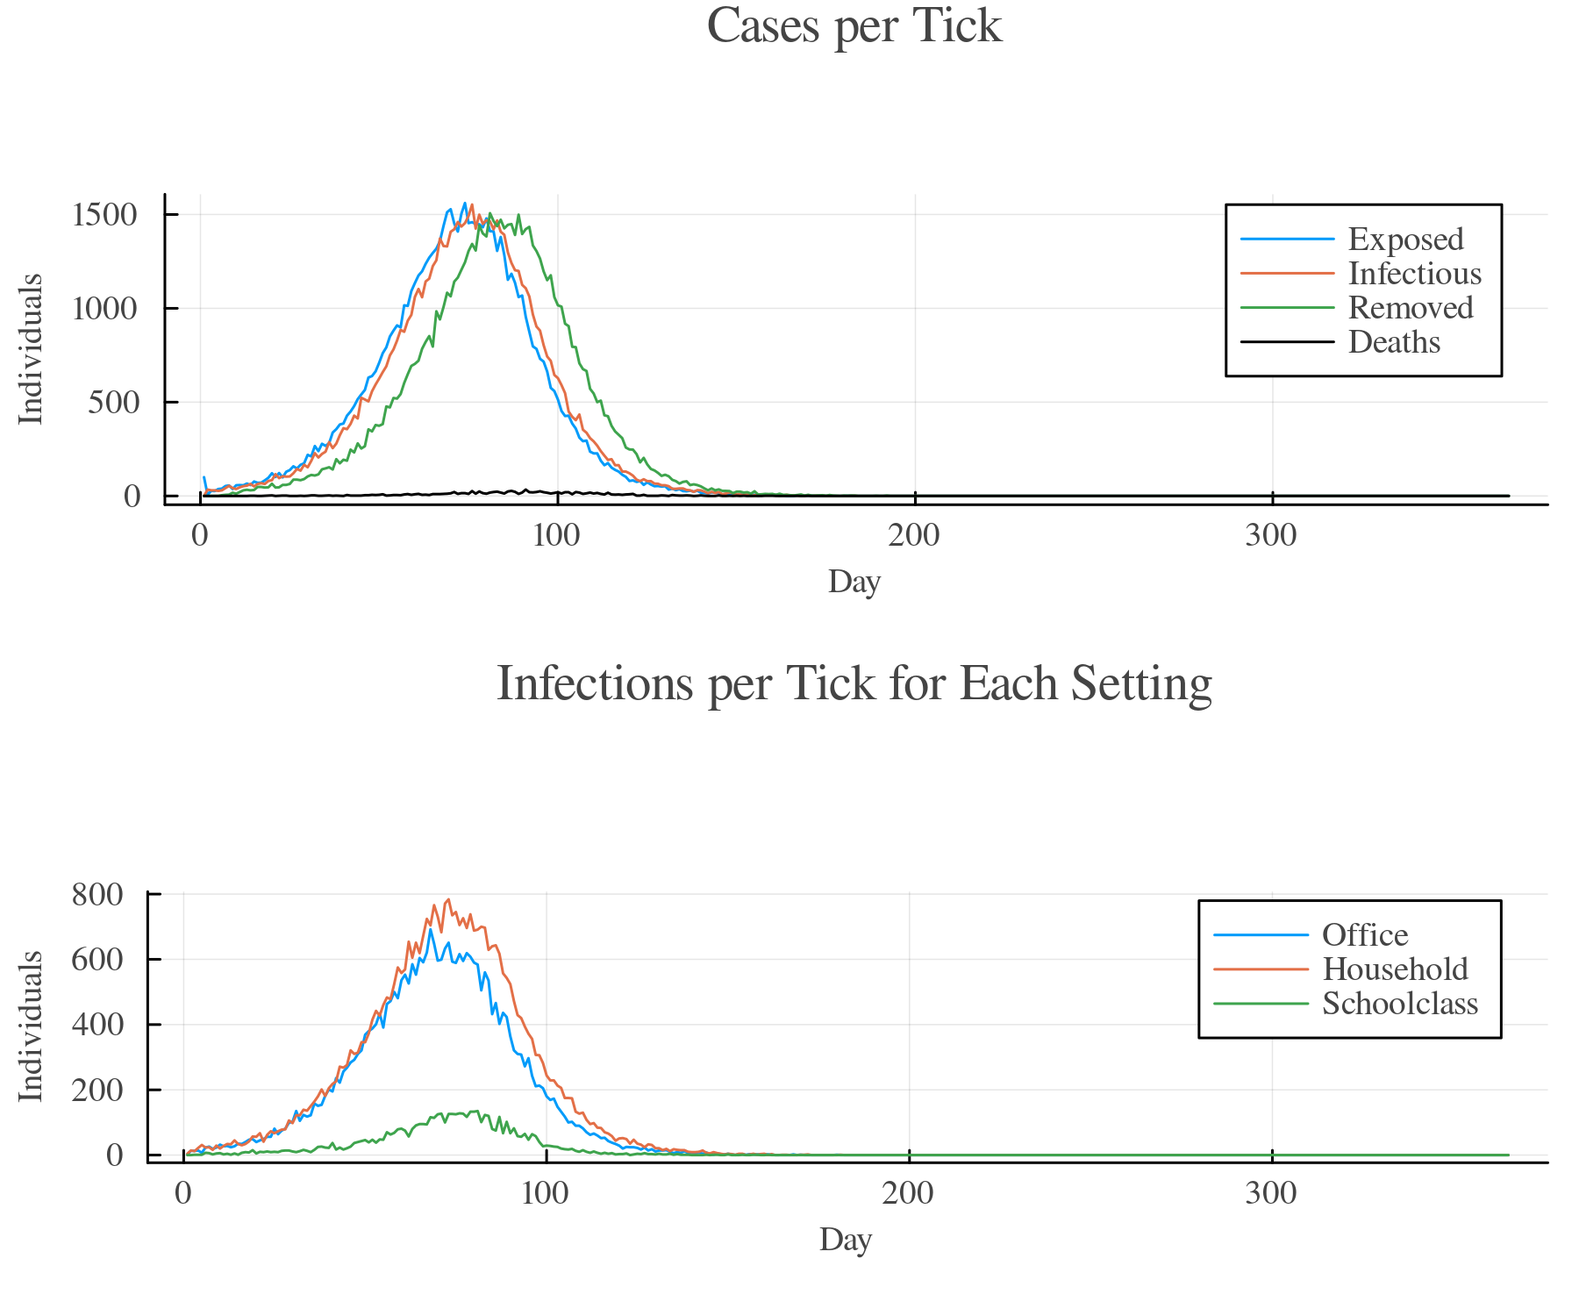
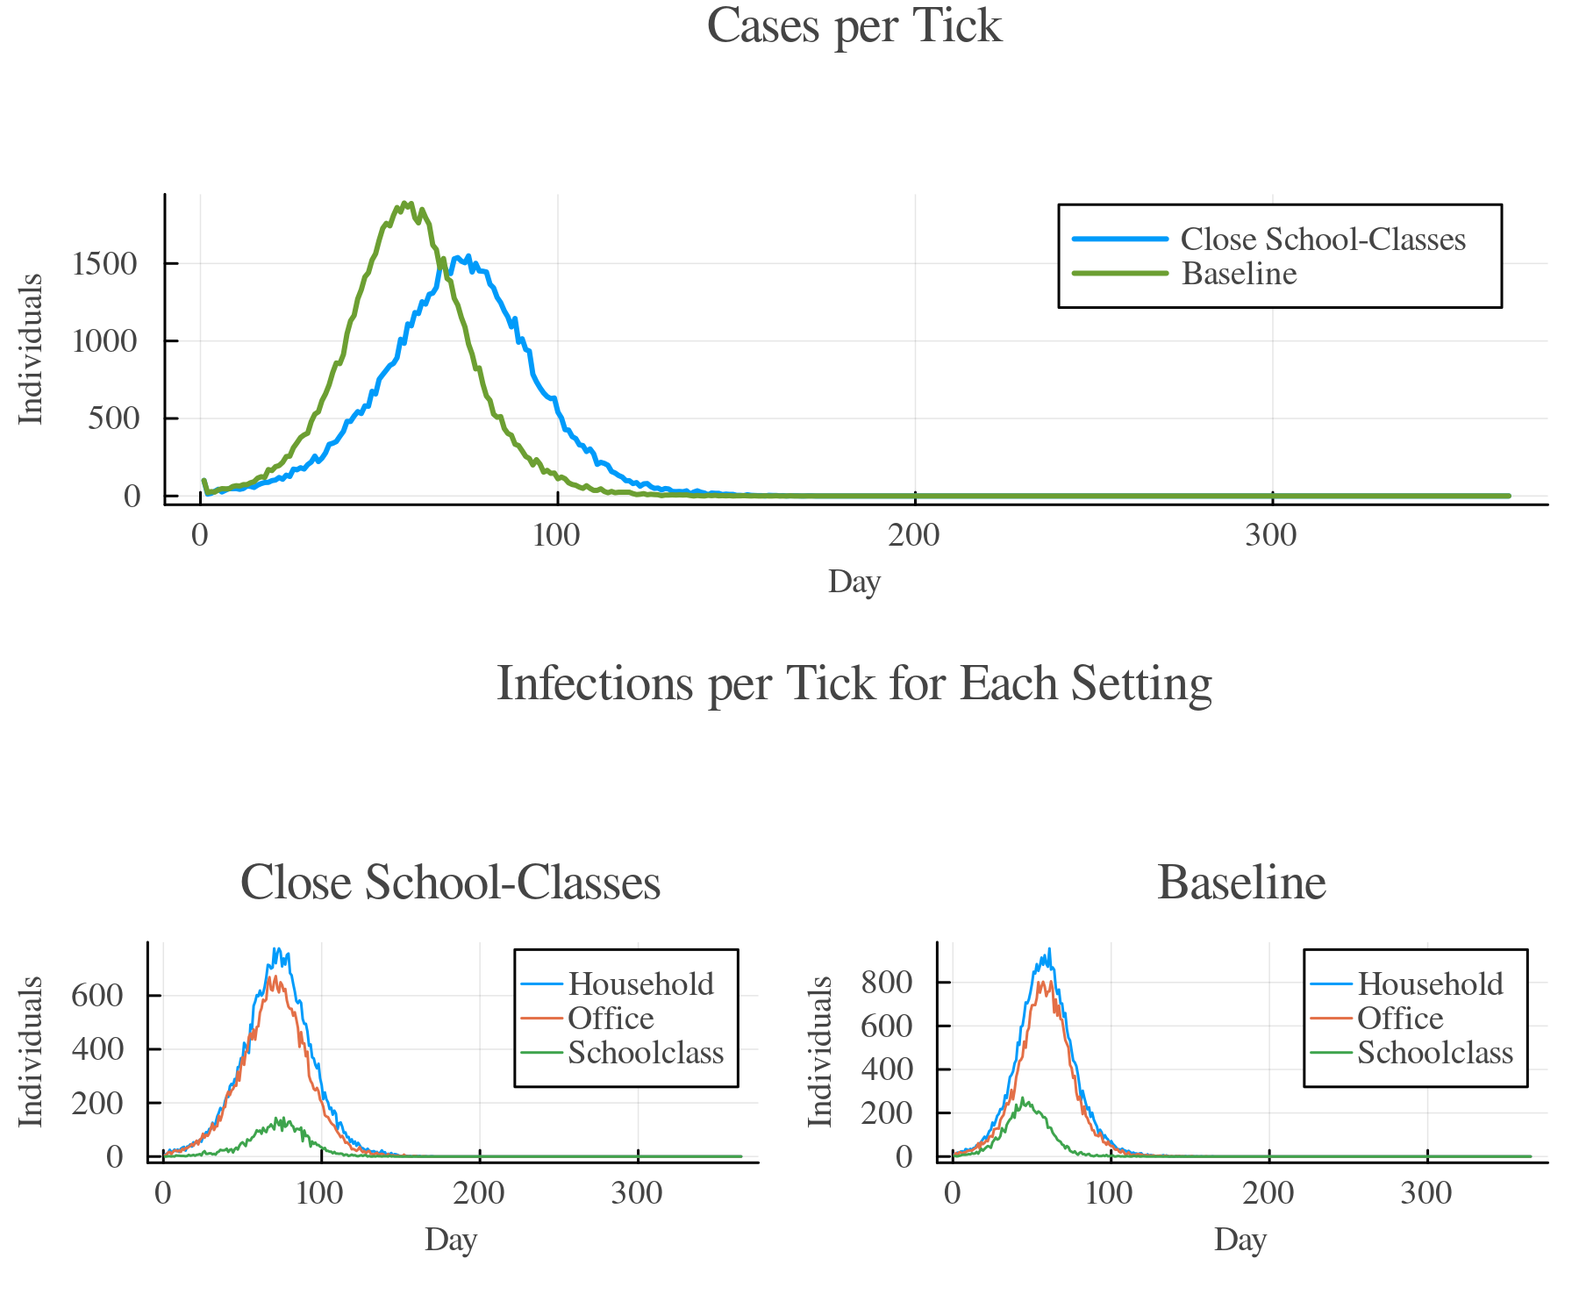
interventions tutorials
- new TickTests plot
- fixed trism blocks (condition on measure instead of strategy)
- change contact measure bug fix
- interventions tutorials adjustments

diff --git a/docs/src/tut_npi.md b/docs/src/tut_npi.md
@@ -127,7 +127,7 @@ Here's an example where people who are older than 50 should be isolated.
 
   - Individuals of age 50+ go into self-isolation for 14 days, immediately upon experiencing symptoms
   - Isolation prevents out-household contacts, but not in-household contacts
-  - Students end their isolation after 14 days, regardless of their infection state
+  - Individuals end their isolation after 14 days, regardless of their infection state
 
 ```julia
 using GEMS
@@ -557,7 +557,7 @@ That's necessary enable the recursive execution of strategies (they have to be "
 
 ```@raw html
 <p align="center">
-    <img src="../assets/tutorials/tut_interventions_trism_ghost_epidemic.png" width="100%"/>
+    <img src="../assets/tutorials/tut_interventions_trism_ghost-epidemic.png" width="100%"/>
 </p>
 ``` 
 
@@ -908,7 +908,7 @@ It is possible to specify that a test should not lead to a new case being report
 Please look up the [Test](@ref Test) measure's parameterization options.
 The next tutorial considers two test types where one of them does not lead to a reported case (self-applied test).
 
-## Seroprevalence Testing in School Class Isolation
+## Seroprevalence Testing
 
 In this tutorial, we demonstrate how to integrate **seroprevalence testing** into a symptom-triggered isolation strategy for **school classes** using GEMS.
 
@@ -924,7 +924,7 @@ We compare this targeted approach with a standard school class isolation strateg
 
 ```@raw html
 <p align="center">
-    <img src="../assets/tutorials/tut_interventions_trism_seroprevalencetesting.png" />
+    <img src="../assets/tutorials/tut_interventions_trism_seroprevalence_testing.png" />
 </p>
 ``` 
 
@@ -1016,11 +1016,6 @@ The testing strategy works as follows:
 Symptomatic individuals receive a PCR test directly. If positive, they are counted as confirmed cases. To also identify asymptomatic or pre-symptomatic cases, everyone in the symptomatic individual's household is tested using an antigen test. If a household member tests positive on the antigen test, they are given a follow-up PCR test for confirmation. Only PCR tests are reportable in this scenario, which avoids double-counting cases detected via both test types.
 
 **Scenario Summary**:
-  - Symptomatic individuals are tested with a **PCR test**.
-  - All other household members are tested with an **Antigen test**.
-  - A positive Antigen test triggers a **follow-up PCR test**.
-  - Only PCR tests are reported.
-  - This allows identifying both symptomatic and some asymptomatic cases, while controlling for test availability and cost.
 
 ```@raw html
 <p align="center">
@@ -1028,15 +1023,23 @@ Symptomatic individuals receive a PCR test directly. If positive, they are count
 </p>
 ``` 
 
+  - Symptomatic individuals are tested with a **PCR test**.
+  - All other household members are tested with an **Antigen test**.
+  - A positive Antigen test triggers a **follow-up PCR test**.
+  - Only PCR tests are reported.
+  - This allows identifying both symptomatic and some asymptomatic cases, while controlling for test availability and cost.
+
 ```julia
 using GEMS
 
-scenario = Simulation(label = "Scenario")
+scenario = Simulation(label = "Multiple Test Types")
 
 # define test type (PCR test)
-PCR_Test = TestType("PCR Test", pathogen(scenario), scenario, sensitivity = 0.99, specificity = 0.99)
+PCR_Test = TestType("PCR Test", pathogen(scenario), scenario, 
+ sensitivity = 0.99, specificity = 0.99)
 # define second test type (Antigen test)
-Antigen_Test = TestType("Antigen Test", pathogen(scenario), scenario, sensitivity = 0.8, specificity = 0.99)
+Antigen_Test = TestType("Antigen Test", pathogen(scenario), scenario, 
+ sensitivity = 0.8, specificity = 0.99)
 
 # define PCR-confirm-testing strategy
 PCR_confirm_testing = IStrategy("PCR confirm Test", scenario)
@@ -1044,11 +1047,13 @@ add_measure!(PCR_confirm_testing, Test("PCR Test", PCR_Test))
 
 # define antigen testing strategy
 antigen_testing = IStrategy("Antigen Testing", scenario)
-add_measure!(antigen_testing, Test("Antigen Test", Antigen_Test, positive_followup = PCR_confirm_testing, reportable = false))
+add_measure!(antigen_testing, Test("Antigen Test", Antigen_Test, 
+ positive_followup = PCR_confirm_testing, reportable = false))
 
 PCR_symptom_test = IStrategy("PCR Symptom Testing", scenario)
 add_measure!(PCR_symptom_test, Test("PCR Symptom Test", PCR_Test))
-add_measure!(PCR_symptom_test, FindSettingMembers(Household, antigen_testing, nonself = true))
+add_measure!(PCR_symptom_test, FindSettingMembers(Household, antigen_testing,
+ nonself = true))
 
 trigger = SymptomTrigger(PCR_symptom_test)
 add_symptom_trigger!(scenario, trigger)
@@ -1057,7 +1062,8 @@ run!(scenario)
 
 rd_s = ResultData(scenario)
 
-gemsplot(rd_s, type = (:TickTests, :TestPositiveRate), size = (800, 800))
+gemsplot(rd_s, type = (:TickTests, :TestPositiveRate, :DetectedCases),
+ series = [:total_tests])
 ```
 
 **Plot**
@@ -1073,45 +1079,49 @@ The results show both the number of tests performed and the test positivity rate
 
 ## Contact Reduction
 
-This scenario demonstrates a simple intervention: **reducing contacts** in specific settings —offices and schoolclasses— beginning three weeks into the epidemic (from tick 21 onward). 
+This scenario demonstrates a simple intervention: reducing contacts in specific settings (offices and schoolclasses) beginning 50 days into the epidemic. 
 The reduction is modeled using a structural strategy that changes how contacts are generated within those settings.
-
-Instead of fully removing individuals or closing the settings, we apply a `ChangeContactMethod` intervention. This uses `ContactparameterSampling(1)`, which modifies the internal contact-generation model to **sample daily contacts using a Poisson distribution centered around the setting's contact parameter**. 
+Instead of fully removing individuals or closing the settings, we apply a `ChangeContactMethod` intervention. This uses `ContactparameterSampling(0.5)`, which modifies the internal contact-generation model to sample daily contacts using a Poisson distribution centered around the setting's contact parameter. 
 This introduces stochastic variability while preserving the overall contact intensity, potentially modeling scenarios such as staggered attendance, smaller groups, or informal distancing behaviors.
 
 **Scenario Summary**:
-  - Contacts are **reduced in offices and schoolclasses** starting on **day 21** of the simulation.
-  - The intervention is implemented using a **Poisson-based contact sampling** method.
-  - This models a **soft contact reduction** rather than full setting closure.
-  - The intervention applies daily from tick 21 onward.
-  - No changes are made to household or community contacts.
 
 ```@raw html
 <p align="center">
     <img src="../assets/tutorials/tut_interventions_trism_contact-reduction.png" width="60%"/>
 </p>
 ``` 
+  - Contacts are reduced in offices and schoolclasses starting on day 50 of the simulation.
+  - The intervention is implemented using a Poisson-based contact sampling method.
+  - This models a soft contact reduction rather than full setting closure.
+  - No changes are made to household contacts.
 
 ```julia
 using GEMS
 
-scenario = Simulation(label = "Scenario")
+scenario = Simulation(label = "Contact Reduction")
 
 reduce_contacts = SStrategy("Reduce Contacts", scenario)
-add_measure!(reduce_contacts, ChangeContactMethod(ContactparameterSampling(1)))
+add_measure!(reduce_contacts, ChangeContactMethod(ContactparameterSampling(0.5)))
 
-trigger = STickTrigger(SchoolClass, reduce_contacts, switch_tick = Int16(21))
+trigger = STickTrigger(SchoolClass, reduce_contacts, switch_tick = Int16(50))
 add_tick_trigger!(scenario, trigger)
 
-trigger = STickTrigger(Office, reduce_contacts, switch_tick = Int16(21))
+trigger = STickTrigger(Office, reduce_contacts, switch_tick = Int16(50))
 add_tick_trigger!(scenario, trigger)
-
-# TODO: bug fix
 
 run!(scenario)
 rd_s = ResultData(scenario)
 
-gemsplot(rd_s, type = (:TickCases, :TickCasesBySetting), size = (800, 800))
+gemsplot(rd_s, type = (:TickCases, :TickCasesBySetting))
+```
+
+**Plot**
+
+```@raw html
+<p align="center">
+    <img src="../assets/tutorials/tut_interventions_contact-reduction.png" width="80%"/>
+</p>
 ```
 
 The results show how case numbers evolve over time and how cases are distributed across settings. You can observe whether the reduction in structured settings (office, schoolclass) slows the epidemic or shifts transmission into other areas like households.
@@ -1119,17 +1129,14 @@ The results show how case numbers evolve over time and how cases are distributed
 
 ## Setting Closure
 
-This section presents two examples of **closing settings** during an outbreak: one that targets all schools after a fixed time, and another that reacts dynamically by closing and reopening specific school classes based on symptoms.
+This section presents two examples of closing settings during an outbreak: one that targets all schools after a fixed time, and another that reacts dynamically by closing and reopening specific school classes based on symptoms.
 
 ### Example 1: Timed School Closure
 
-In this scenario, **all schools are closed on day 14**, two weeks into the epidemic. This is a structural intervention applied using the `CloseSetting()` measure, which disables contact interactions within the affected setting. Since default populations in GEMS only include low-level settings (like SchoolClass), we use the **"SL" population** model (based on Saarland), which includes **container settings** such as full schools.
+In this scenario, all schools are closed on day 42, six weeks into the epidemic. This is a structural intervention applied using the `CloseSetting()` measure, which disables contact interactions within the affected setting. Since default populations in GEMS only include low-level settings (like SchoolClass), we use the "SL" population model (based on Saarland), which includes container settings such as full schools.
+To allow the epidemic to develop more gradually and better highlight the effect of the intervention, we reduce the transmission rate.
 
 **Scenario Summary**:
-  - Simulation uses the **Saarland ("SL")** population with container settings like full **schools**.
-  - All schools are **closed on tick 14** (day 14 of the outbreak).
-  - The intervention halts all school-related transmission from that point onward.
-
 
 ```@raw html
 <p align="center">
@@ -1137,22 +1144,28 @@ In this scenario, **all schools are closed on day 14**, two weeks into the epide
 </p>
 ``` 
 
+  - Simulation uses the Saarland ("SL") population with container settings like full schools.
+  - All schools are closed on tick 42 (day 42 of the outbreak).
+  - The intervention halts all school-related transmission from that point onward.
+
+
 ```julia
 using GEMS
+using Plots
 
-scenario = Simulation(label = "Scenario", population="SL")
+scenario = Simulation(label = "School-Closing", population="SL", transmission_rate=0.05)
 
 school_closing = SStrategy("Close Schools", scenario)
 add_measure!(school_closing, CloseSetting())
 
-trigger = STickTrigger(School, school_closing, switch_tick = Int16(14))
+trigger = STickTrigger(School, school_closing, switch_tick = Int16(42))
 add_tick_trigger!(scenario, trigger)
 
 run!(scenario)
 rd_s = ResultData(scenario)
 
-gemsplot(rd_s, type = (:TickCases, :TickCasesBySetting), size = (800, 800))
-vline!([14], color = :red, linestyle = :dash, label = "School Closing")
+gemsplot(rd_s, type = (:TickCases, :TickCasesBySetting))
+vline!([42], color = :red, linestyle = :dash, label = "School Closing")
 ```
 
 **Plot**
@@ -1162,25 +1175,20 @@ vline!([14], color = :red, linestyle = :dash, label = "School Closing")
     <img src="../assets/tutorials/tut_interventions_setting-closure.png" width="80%"/>
 </p>
 ```
-
-The results show a **drop in transmission from school settings** after day 14, and a corresponding slowdown in overall case growth. A vertical line is included in the plot to highlight the intervention point.
+The results show that closing all schools on day 42 substantially reduces transmission within the school setting but has a limited effect on the overall epidemic peak.
 
 ---
 
 ### Example 2: Reactive School Class Closure and Reopening
 
-This scenario models a more **granular, dynamic intervention**: when a **student develops symptoms**, their **school class is closed immediately**. After **6 days**, the class is automatically reopened. This simulates targeted closure of small units within schools, reflecting policies where only affected groups are temporarily isolated rather than entire institutions.
-
+This scenario models a more granular, dynamic intervention: when a student develops symptoms, their school class is closed immediately. After 6 days, the class is automatically reopened. This simulates targeted closure of small units within schools, reflecting policies where only affected groups are temporarily isolated rather than entire institutions.
 This is implemented by:
 - Detecting symptomatic students,
-- Finding their associated **SchoolClass**,
+- Finding their associated SchoolClass,
 - Applying both `CloseSetting()` and, after a delay, `OpenSetting()`.
+We compare this scenario with a simulation without any interventions.
 
 **Scenario Summary**:
-  - If a **student becomes symptomatic**, their **school class is closed immediately**.
-  - The class is **reopened automatically after 6 days**.
-  - This approach allows **localized, temporary closures**, minimizing disruption.
-  - Other settings (e.g., households or offices) are unaffected.
 
 ```@raw html
 <p align="center">
@@ -1188,26 +1196,35 @@ This is implemented by:
 </p>
 ``` 
 
+  - If a student becomes symptomatic, their school class is closed immediately.
+  - The class is reopened automatically after 6 days.
+  - This approach allows localized, temporary closures, minimizing disruption.
+  - Other settings (e.g., households or offices) are unaffected.
+
 ```julia
 using GEMS
 
-scenario = Simulation(label = "Scenario")
+baseline = Simulation(label = "Baseline")
+scenario = Simulation(label = "Close School-Classes")
 
 close_and_open_class = SStrategy("Close and Open Class", scenario)
 add_measure!(close_and_open_class, CloseSetting())
 add_measure!(close_and_open_class, OpenSetting(), offset = 6)
 
 find_schoolclass = IStrategy("Find Class", scenario)
-add_measure!(find_schoolclass, FindSetting(SchoolClass, close_and_open_class), condition = is_student)
+add_measure!(find_schoolclass, FindSetting(SchoolClass, close_and_open_class),
+ condition = is_student)
 
 trigger = SymptomTrigger(find_schoolclass)
 add_symptom_trigger!(scenario, trigger)
 
+run!(baseline)
 run!(scenario)
 
+rd_b = ResultData(baseline)
 rd_s = ResultData(scenario)
 
-gemsplot(rd_s, type = (:TickCases, :TickCasesBySetting))
+gemsplot([rd_s, rd_b], type = (:TickCases, :TickCasesBySetting))
 ```
 
 **Plot**
@@ -1218,55 +1235,64 @@ gemsplot(rd_s, type = (:TickCases, :TickCasesBySetting))
 </p>
 ``` 
 
-The results show **local reductions in school class transmission**, while allowing normal activity to resume shortly after. This reactive strategy balances containment with continuity.
+The results show fewer cases overall, but especially fewer infections in schoolclasses.
 
 ## Custom Measures
 
-In this scenario, we explore how **risk perception and behavioral change** can be modeled dynamically using a custom measure. At the start of the simulation, no one is willing to follow isolation mandates—every individual has a `mandate_compliance` of 0, meaning they will **never** voluntarily isolate, even if symptomatic.
-
-However, people begin to **adjust their behavior when someone they know is hospitalized**. 
+In this scenario, we explore how*risk perception and behavioral change can be modeled dynamically using a custom measure. At the start of the simulation, no one is willing to follow isolation mandates—every individual has a `mandate_compliance` of 0, meaning they will never voluntarily isolate, even if symptomatic.
+However, people begin to adjust their behavior when someone they know is hospitalized. 
 Specifically, if a person shares a setting (household, office, or schoolclass) with someone who is hospitalized, they become more cautious and begin to comply fully with isolation instructions (i.e., their `mandate_compliance` is set to 1.0). From that point on, if they develop symptoms, they will isolate for 14 days.
-
-This change in behavior is implemented using a custom measure that updates the `mandate_compliance` field at runtime. Additionally, a custom logger tracks the **average mandate compliance over time**, allowing us to observe the societal shift toward more cautious behavior as the epidemic progresses.
-
 We also made some modifications to the simulation parameters:
-- The simulation starts with **only 10 infected individuals**, representing a very early outbreak stage.
-- The **disease progression** is configured such that **10% of infected individuals require hospitalization**, making the consequences of spread more severe and increasing the likelihood of behavior change.
+- The simulation starts with only 10 infected individuals, representing a very early outbreak stage.
+- The disease progression is configured such that 10% of infected individuals require hospitalization, making the consequences of spread more severe and increasing the likelihood of behavior change.
+We compare the scenario with a simulation without any interventions but the same parameters.
 
 **Scenario Summary**:
-  - At the beginning, **no one follows isolation rules**, even when sick.
-  - When someone is **hospitalized**, all contacts (in household, schoolclass, or office) become compliant with mandates.
-  - Compliant individuals **isolate for 14 days** if they develop symptoms.
-  - A **custom measure** is used to dynamically update individual behavior.
-  - A **custom logger** tracks the average level of compliance in the population.
-  - The simulation starts with **very few infections** and **higher severity**, emphasizing the impact of hospitalization events.
 
 ```@raw html
 <p align="center">
-    <img src="../assets/tutorials/tut_interventions_trism_custom_measure.png" width="50%"/>
-    <img src="../assets/tutorials/tut_interventions_trism_custom_measure2.png" width="100%"/>
+    <img src="../assets/tutorials/tut_interventions_trism_custom_measure.png" width="100%"/>
 </p>
 ``` 
 
-```julia
+  - At the beginning, no one follows isolation rules, even when sick.
+  - When someone is hospitalized, all contacts (in household, schoolclass, or office) become compliant with mandates.
+  - Compliant individuals isolate for 14 days if they develop symptoms.
+  - A custom measure is used to dynamically update individual behavior.
+  - A custom logger tracks the average level of compliance in the population.
+  - The simulation starts with very few infections and higher severity, emphasizing the impact of hospitalization events.
 
+```julia
 using GEMS
 
-scenario = Simulation(label = "Scenario", progression_categories = [0.4, 0.4, 0.1, 0.1], infected_fraction = 0.0001)
+baseline = Simulation(label = "Baseline", progression_categories = [0.4, 0.4, 0.1, 0.1],
+ infected_fraction = 0.0001)
 
 # Set mandate compliance to 0 for all individuals
+mandate_compliance!.(individuals(baseline), 0.0f0)
+
+scenario = Simulation(label = "Change Mandate Compliance", 
+ progression_categories = [0.4, 0.4, 0.1, 0.1], infected_fraction = 0.0001)
+
 mandate_compliance!.(individuals(scenario), 0.0f0)
 
 self_isolation = IStrategy("Self Isolation", scenario)
-add_measure!(self_isolation, SelfIsolation(14), condition = ind -> rand() < mandate_compliance(ind))
+add_measure!(self_isolation, SelfIsolation(14), 
+ condition = ind -> rand() < mandate_compliance(ind))
 
 change_mandate_compliance = IStrategy("Change Risk Behavior", scenario)
-add_measure!(change_mandate_compliance, CustomIMeasure((i, sim) -> mandate_compliance!(i, 1.0f0)))
+add_measure!(change_mandate_compliance, 
+ CustomIMeasure((i, sim) -> mandate_compliance!(i, 1.0f0)))
 
 find_setting_members = IStrategy("Find Contacts", scenario)
-add_measure!(find_setting_members, FindSettingMembers(Household, change_mandate_compliance, nonself = false))
-add_measure!(find_setting_members, FindSettingMembers(SchoolClass, change_mandate_compliance, nonself = false), condition = is_student)
-add_measure!(find_setting_members, FindSettingMembers(Office, change_mandate_compliance, nonself = false), condition = is_working)
+add_measure!(find_setting_members, 
+ FindSettingMembers(Household, change_mandate_compliance, nonself = false))
+add_measure!(find_setting_members, 
+ FindSettingMembers(SchoolClass, change_mandate_compliance, nonself = false), 
+  condition = is_student)
+add_measure!(find_setting_members, 
+ FindSettingMembers(Office, change_mandate_compliance, nonself = false), 
+  condition = is_working)
 
 symptom_trigger = SymptomTrigger(self_isolation)
 add_symptom_trigger!(scenario, symptom_trigger)
@@ -1282,11 +1308,16 @@ end
 
 cl = CustomLogger(avg_mandate_compliance = avg_compliance)
 customlogger!(scenario, cl)
+customlogger!(baseline, cl)
 
 run!(scenario)
-rd_s = ResultData(scenario)
+run!(baseline)
 
-gemsplot(rd_s, type = (:TickCases, :HospitalOccupancy, :CustomLoggerPlot), size = (800, 800))
+rd_s = ResultData(scenario)
+rd_b = ResultData(baseline)
+
+gemsplot([rd_s, rd_b], type = (:TickCases, :HospitalOccupancy, :CustomLoggerPlot),
+ xlims = (0, 364))
 ```
 
 **Plot**
